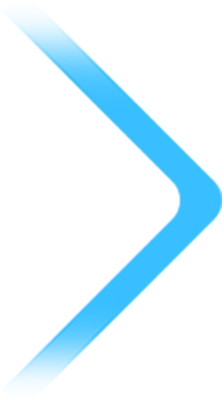
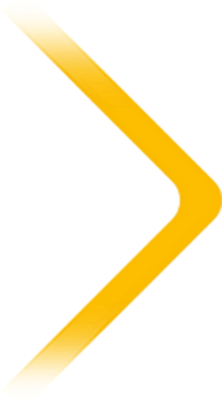
added fhevm session game start and card draw

Changed region(s): [[0.0625, 0.03, 1.0, 0.96]]

diff --git a/fheight-source/app/ui/views/item/settings_menu.js b/fheight-source/app/ui/views/item/settings_menu.js
@@ -25,6 +25,7 @@ var ActivityDialogItemView = require('./activity_dialog');
 var ChangeUsernameItemView = require('./change_username');
 var AccountInventoryResetModalView = require('./account_inventory_reset_modal');
 var RedeemGiftCodeModalView = require('./redeem_gift_code_modal');
+var ZodiacSymbolModel = require('app/ui/models/zodiac_symbol');
 
 var SettingsMenuView = Backbone.Marionette.ItemView.extend({
 
@@ -58,6 +59,7 @@ var SettingsMenuView = Backbone.Marionette.ItemView.extend({
     $checkboxStickyTargeting: '#checkbox-sticky-targeting',
     $checkboxShowInGameTips: '#checkbox-show-in-game-tips',
     $checkboxRazerChromaEnabled: '#checkbox-razer-chroma-enabled',
+    $checkboxFHEEnabled: '#checkbox-fhe-enabled',
     $masterVolume: '#master-volume',
     $musicVolume: '#music-volume',
     $voiceVolume: '#voice-volume',
@@ -90,6 +92,7 @@ var SettingsMenuView = Backbone.Marionette.ItemView.extend({
     'change #checkbox-sticky-targeting': 'changeStickyTargeting',
     'change #checkbox-show-in-game-tips': 'changeShowInGameTips',
     'change #checkbox-razer-chroma-enabled': 'changeRazerChromaEnabled',
+    'change #checkbox-fhe-enabled': 'changeFHEEnabled',
     'change #master-volume': 'changeMasterVolume',
     'change #music-volume': 'changeMusicVolume',
     'change #voice-volume': 'changeVoiceVolume',
@@ -102,6 +105,7 @@ var SettingsMenuView = Backbone.Marionette.ItemView.extend({
   animateIn: Animations.fadeIn,
   animateOut: Animations.fadeOut,
   _requestId: null,
+  _zodiacModel: null,
 
   initialize: function () {
     // generate unique id for requests
@@ -162,6 +166,7 @@ var SettingsMenuView = Backbone.Marionette.ItemView.extend({
     this.ui.$checkboxStickyTargeting.prop('checked', this.model.get('stickyTargeting'));
     this.ui.$checkboxShowInGameTips.prop('checked', this.model.get('showInGameTips'));
     this.ui.$checkboxRazerChromaEnabled.prop('checked', this.model.get('razerChromaEnabled'));
+    this.ui.$checkboxFHEEnabled.prop('checked', this.model.get('fheEnabled') !== false); // Default true
     this.ui.$masterVolume.val(parseFloat(this.model.get('masterVolume')));
     this.ui.$musicVolume.val(parseFloat(this.model.get('musicVolume')));
     this.ui.$voiceVolume.val(parseFloat(this.model.get('voiceVolume')));
@@ -197,6 +202,9 @@ var SettingsMenuView = Backbone.Marionette.ItemView.extend({
     this.listenTo(this.model, 'change:shadowQuality', this._updateShadowQualityUI.bind(this));
     this.listenTo(this.model, 'change:boardQuality', this._updateBoardQualityUI.bind(this));
 
+    // Initialize ZAMA colored zodiac symbol for settings header
+    this._initZodiacSymbol();
+
     // change gradient color mapping
     Scene.getInstance().getFX().showGradientColorMap(this._requestId, CONFIG.ANIMATE_FAST_DURATION, {
       r: 194, g: 203, b: 220, a: 255,
@@ -210,6 +218,11 @@ var SettingsMenuView = Backbone.Marionette.ItemView.extend({
   onPrepareForDestroy: function () {
     // hide ZENDESK widget
     window.zE && window.zE.hide && window.zE.hide();
+
+    // Stop zodiac animation
+    if (this._zodiacModel) {
+      this._zodiacModel.stopDrawing();
+    }
 
     // reset gradient color mapping
     Scene.getInstance().getFX().clearGradientColorMap(this._requestId, CONFIG.ANIMATE_MEDIUM_DURATION);
@@ -349,6 +362,10 @@ var SettingsMenuView = Backbone.Marionette.ItemView.extend({
     this.model.set('razerChromaEnabled', this.ui.$checkboxRazerChromaEnabled.prop('checked'));
   },
 
+  changeFHEEnabled: function () {
+    this.model.set('fheEnabled', this.ui.$checkboxFHEEnabled.prop('checked'));
+  },
+
   changeShowInGameTips: function () {
     this.model.set('showInGameTips', this.ui.$checkboxShowInGameTips.prop('checked'));
   },
@@ -419,6 +436,23 @@ var SettingsMenuView = Backbone.Marionette.ItemView.extend({
       // low quality board
       this.ui.$buttonBoardQualityLow.addClass('active');
       this.ui.$buttonBoardQualityHigh.removeClass('active');
+    }
+  },
+
+  _initZodiacSymbol: function () {
+    var $canvas = this.$el.find('.settings-zodiac-canvas');
+    var canvas = $canvas[0];
+    if (canvas) {
+      // Create ZAMA themed zodiac model with gold color
+      this._zodiacModel = new ZodiacSymbolModel({ canvas: canvas });
+      // Override shadow color to ZAMA yellow
+      this._zodiacModel.shadowColor = '#ffd208';
+      this._zodiacModel.startDrawing();
+      // Apply additional CSS for alignment (after ZodiacSymbolModel sets its styles)
+      $canvas.css({
+        'vertical-align': 'middle',
+        'margin-right': '1rem',
+      });
     }
   },
 

diff --git a/fheight-source/app/ui/models/profile.js b/fheight-source/app/ui/models/profile.js
@@ -35,6 +35,7 @@ const Profile = FHEIGHTFirebase.Model.extend({
     this.on("change:stickyTargeting", this.onStickyTargetingChange, this);
     this.on("change:showInGameTips", this.onShowInGameTipsChange, this);
     this.on("change:razerChromaEnabled", this.onRazerChromaEnabled, this);
+    this.on("change:fheEnabled", this.onFHEEnabledChange, this);
     this.on("change:masterVolume", this.onMasterVolumeChange, this);
     this.on("change:musicVolume", this.onMusicVolumeChange, this);
     this.on("change:voiceVolume", this.onVoiceVolumeChange, this);
@@ -79,6 +80,7 @@ const Profile = FHEIGHTFirebase.Model.extend({
     stickyTargeting: false,
     showInGameTips: true,
     razerChromaEnabled: false,
+    fheEnabled: true, // FHE Secure Mode - default enabled for maximum security
     showPrismaticsInCollection: true,
     showPrismaticsWhileCrafting: false,
     showSkinsInCollection: true,
@@ -143,6 +145,10 @@ const Profile = FHEIGHTFirebase.Model.extend({
 
   onRazerChromaEnabled() {
     return this.setRazerChromaEnabled(this.get('razerChromaEnabled'));
+  },
+
+  onFHEEnabledChange() {
+    return this.setFHEEnabled(this.get('fheEnabled'));
   },
 
   onMasterVolumeChange() {
@@ -229,6 +235,12 @@ const Profile = FHEIGHTFirebase.Model.extend({
 
   setRazerChromaEnabled(val) {
     return CONFIG.razerChromaEnabled = window.isDesktop && val;
+  },
+
+  setFHEEnabled(val) {
+    CONFIG.fheEnabled = val;
+    Logger.module("UI").log("FHE Secure Mode:", val ? "ENABLED" : "DISABLED");
+    return CONFIG.fheEnabled;
   },
 
   setMasterVolume(val) {

diff --git a/fheight-source/app/ui/styles/item/settings.scss b/fheight-source/app/ui/styles/item/settings.scss
@@ -16,6 +16,20 @@
 			max-width: 20rem;
 		}
 	}
+
+	// ZAMA Zodiac Canvas positioning
+	.header-dashed-text {
+		// Hide default dashes icon, use canvas instead
+		&:before {
+			display: none;
+		}
+
+		// Canvas inside title - inline aligned
+		.settings-zodiac-canvas {
+			vertical-align: top;
+			margin-right: 1rem;
+		}
+	}
 }
 
 .settings-category {
@@ -146,4 +160,45 @@
 	bottom: -4.0rem;
 	left: 50%;
 	transform: translateX(-50%);
+}
+
+/* ---------- SETTINGS - ZAMA THEME ---------- */
+
+// ZAMA Color Variables
+$zama-yellow: #ffd208;
+$zama-yellow-dark: #716023;
+$zama-yellow-light: #ffe566;
+$zama-yellow-border: #b89b1a;
+
+// Settings Quality Buttons - ZAMA Theme (lighting, shadow, board)
+.settings-category {
+	.btn-group {
+		.btn-primary {
+			background: rgba(113, 96, 35, 0.4);
+			border: 1px solid $zama-yellow-border;
+			color: $zama-yellow-light;
+			text-shadow: 0 0.1rem 0.2rem rgba(0,0,0,0.5);
+			transition: all 0.15s ease;
+
+			&:hover, &:focus {
+				background: rgba(113, 96, 35, 0.6);
+				border-color: $zama-yellow;
+				color: $zama-yellow;
+			}
+
+			&:active {
+				background: rgba(113, 96, 35, 0.8);
+			}
+
+			&.active {
+				background: linear-gradient(180deg, $zama-yellow 0%, #c9a820 100%);
+				border-color: $zama-yellow;
+				color: $zama-yellow-dark;
+				text-shadow: 0 0.1rem 0 rgba(255,255,255,0.3);
+				box-shadow:
+					0 0 0.8rem rgba(255, 210, 8, 0.5),
+					inset 0 0.1rem 0 rgba(255,255,255,0.3);
+			}
+		}
+	}
 }

diff --git a/fheight-source/app/ui/styles/common/buttons.scss b/fheight-source/app/ui/styles/common/buttons.scss
@@ -442,14 +442,18 @@ input.btn-clean-primary {
 		margin: 0;
 
 		&:checked ~ label {
-			background: $blue;
+			background: #ffd208; // ZAMA Yellow
+			box-shadow:
+				inset 0 0.2rem 0.5rem 0.1rem rgba(0,0,0,0.15),
+				0 0.1rem 0 rgba(255,255,255,0.3),
+				0 0 0.8rem rgba(255, 210, 8, 0.4);
 			i {
 				right: -1%;
 				&:before {
 					content: "on";
 					right: 115%;
-					color: rgba(50, 50, 50, 0.75);
-					text-shadow: 0 0.1rem 0 #8CD5F1, 0 -0.1rem 0 #79B1C1;
+					color: #716023; // ZAMA Dark Yellow
+					text-shadow: 0 0.1rem 0 #ffe566, 0 -0.1rem 0 #c9a820;
 				}
 			}
 		}

diff --git a/fheight-source/app/common/config.js b/fheight-source/app/common/config.js
@@ -1354,6 +1354,9 @@ CONFIG.reset = function () {
 
   // razer chroma integration
   CONFIG.razerChromaEnabled = false;
+
+  // FHE Secure Mode - enables ZAMA FHE encryption for multiplayer games
+  CONFIG.fheEnabled = true;
 };
 CONFIG.resetLastGameData = function () {
   // global animation speed modifier used by replay playback
